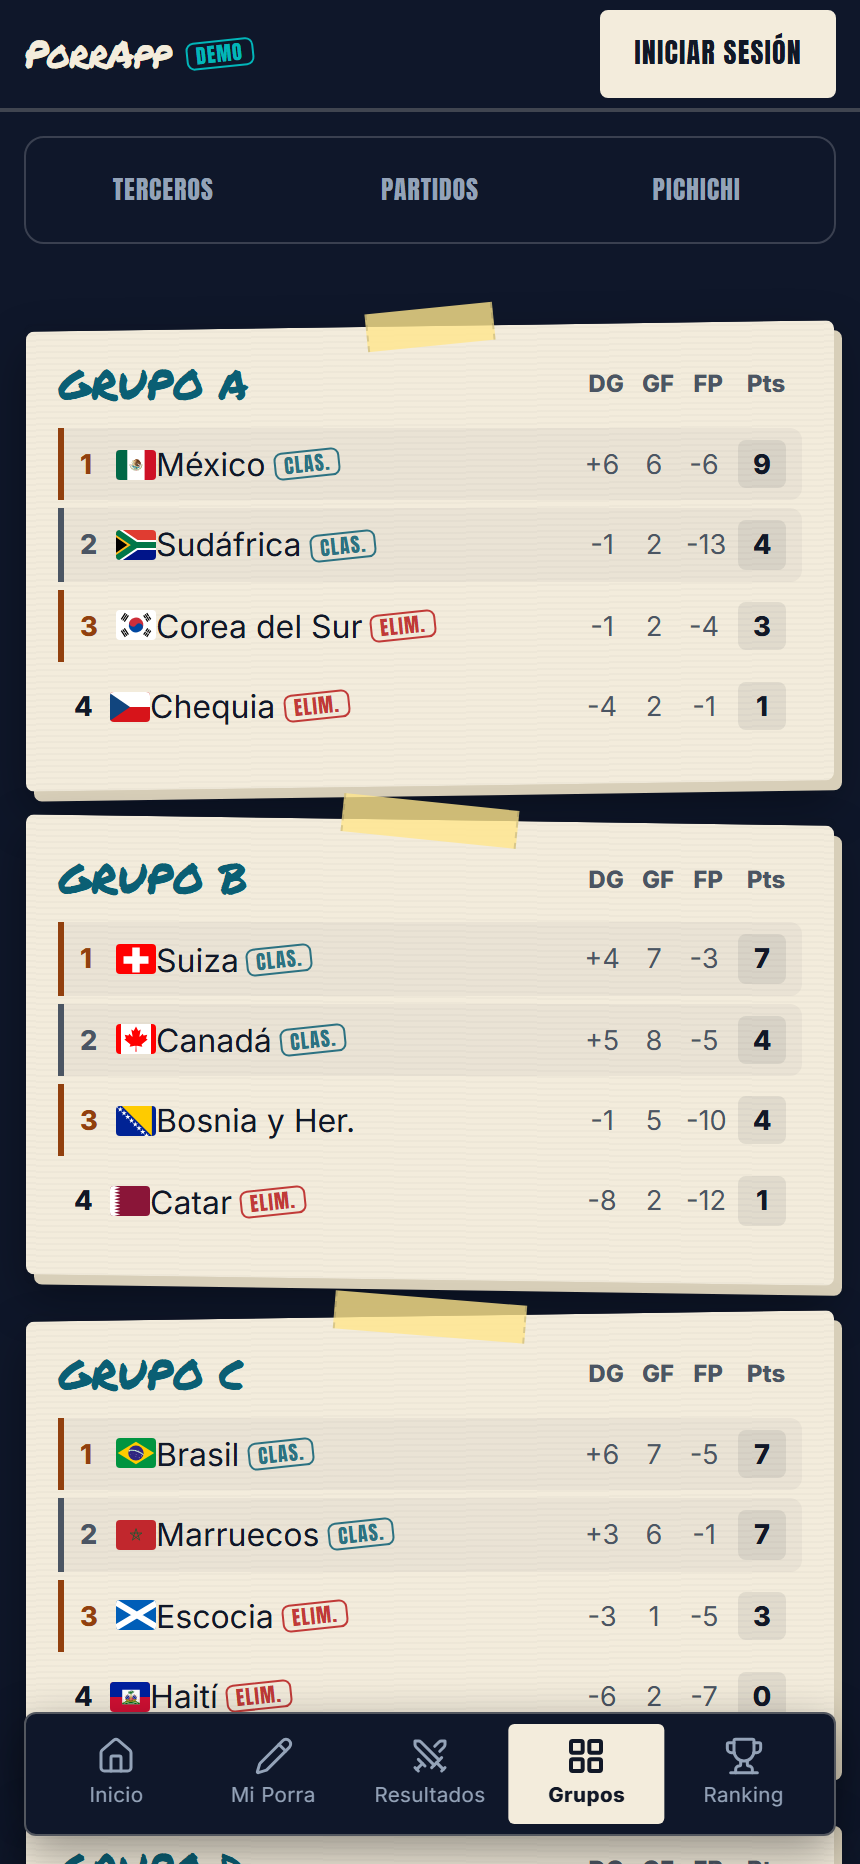
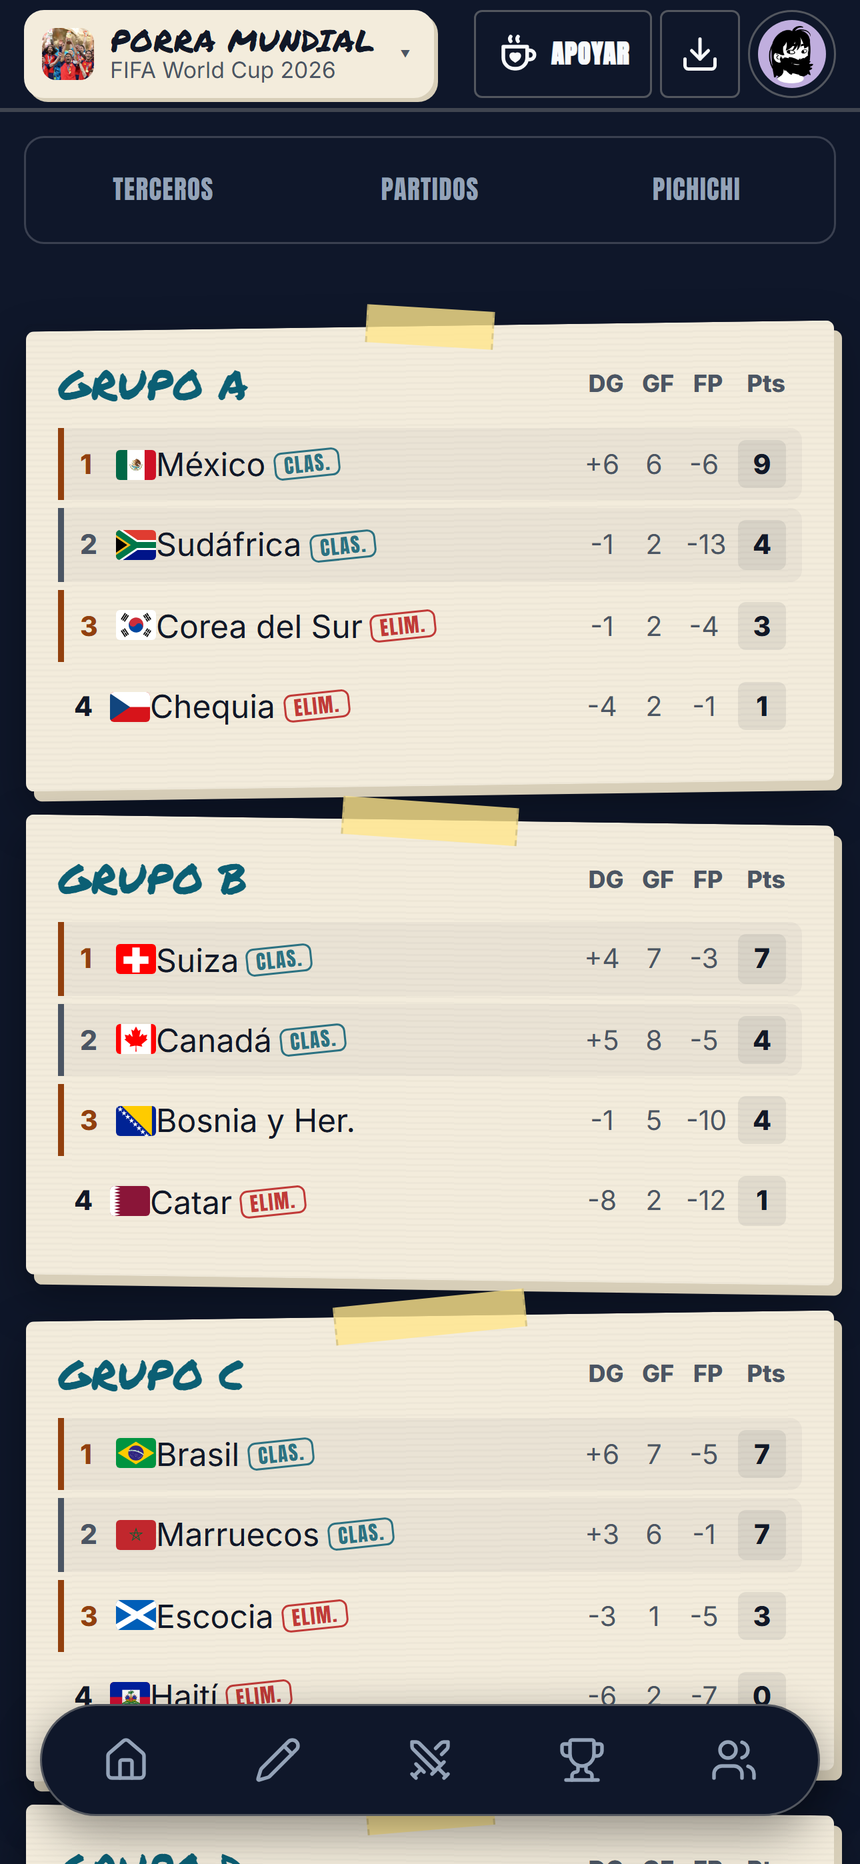
docs: README al día con capturas nuevas
PR: #462

diff --git a/README.md b/README.md
@@ -1,12 +1,12 @@
 <div align="center">
 
-<img src="docs/screenshots/hero.jpg" alt="PorrApp: jornadas deportivas, clasificación y marcador de juegos en la interfaz móvil actual" width="100%">
+<img src="docs/screenshots/hero.jpg" alt="PorrApp: predicciones de la jornada, clasificación y cuadro de eliminatorias en la interfaz móvil actual" width="100%">
 
 # PorrApp
 
 **Tu liga con amigos. Del pronóstico del domingo a la partida del jueves.**
 
-Porras multideporte y marcadores de juegos de mesa, en una PWA con Java y React.
+Porras multideporte, torneos propios, ligas de póker y marcadores de juegos de mesa, en una PWA con Java y React.
 
 [![Demo en vivo](https://img.shields.io/badge/Probar_la_demo-porrapp.app-2fc4c4?style=for-the-badge&logo=googlechrome&logoColor=white)](https://porrapp.app/demo)
 [![CI](https://img.shields.io/github/actions/workflow/status/RaclosDev/porrApp/ci.yml?branch=main&style=for-the-badge&label=CI&logo=githubactions&logoColor=white)](https://github.com/RaclosDev/porrApp/actions/workflows/ci.yml)
@@ -17,45 +17,51 @@ Java 21 · Spring Boot 4.1 · React 19 · TypeScript · PostgreSQL
 
 Proyecto personal de **Carlos Sanz Tomero**, desarrollador full-stack. PorrApp reúne invitaciones, predicciones, resultados y clasificación para que un grupo pueda llevar su liga desde el móvil. Las competiciones oficiales compatibles sincronizan sus resultados; los torneos propios y las partidas tienen gestión manual.
 
-**Para conocer el proyecto:** [abre la demo sin registro](https://porrapp.app/demo), consulta las decisiones técnicas de abajo o entra en la [arquitectura](docs/architecture.md). La demo pública muestra una liga del Mundial en modo de solo lectura; las capturas también enseñan las modalidades incorporadas después.
+**Para conocer el proyecto:** [abre la demo sin registro](https://porrapp.app/demo), consulta las decisiones técnicas de abajo o entra en la [arquitectura](docs/architecture.md). La demo pública muestra una liga del Mundial en modo de solo lectura; las capturas enseñan además las ligas por jornadas y el póker.
 
 ## La app actual
 
 <table>
   <tr>
-    <td align="center" width="33%"><img src="docs/screenshots/league-home.png" alt="Inicio de una liga por jornadas con calendario y clasificación" width="240"><br><sub><b>Tu liga</b> · calendario y ranking</sub></td>
-    <td align="center" width="33%"><img src="docs/screenshots/matchday.png" alt="Predicciones 1X2 de la jornada con elecciones guardadas" width="240"><br><sub><b>Jornadas</b> · cada partido tiene su cierre</sub></td>
-    <td align="center" width="33%"><img src="docs/screenshots/scoreboard.png" alt="Marcador de Catán con rondas, totales y participantes" width="240"><br><sub><b>Juegos de mesa</b> · rondas y partidas</sub></td>
+    <td align="center" width="33%"><img src="docs/screenshots/league-home.png" alt="Inicio de una liga de LaLiga con los partidos de la próxima jornada y sus escudos" width="240"><br><sub><b>Tu liga</b> · la jornada que viene</sub></td>
+    <td align="center" width="33%"><img src="docs/screenshots/matchday.png" alt="Predicciones 1X2 de una jornada con las elecciones guardadas y cada partido abierto" width="240"><br><sub><b>Jornadas</b> · cada partido tiene su cierre</sub></td>
+    <td align="center" width="33%"><img src="docs/screenshots/league-ranking.png" alt="Podio de la jornada y clasificación general de la liga con los avatares de los participantes" width="240"><br><sub><b>Ranking</b> · general y por jornada</sub></td>
   </tr>
   <tr>
-    <td align="center"><img src="docs/screenshots/ranking.png" alt="Podio y clasificación de la demo pública" width="240"><br><sub><b>Ranking</b> · puntos y desglose</sub></td>
-    <td align="center"><img src="docs/screenshots/prediction.png" alt="Predicción de eliminatorias en la demo pública" width="240"><br><sub><b>Cuadro</b> · camino hasta la final</sub></td>
-    <td align="center"><img src="docs/screenshots/groups.png" alt="Clasificación de los grupos del torneo" width="240"><br><sub><b>Grupos</b> · clasificación y desempates</sub></td>
+    <td align="center"><img src="docs/screenshots/ranking.png" alt="Podio y clasificación de una porra del Mundial con veinte participantes" width="240"><br><sub><b>Mundial</b> · podio y desglose por fase</sub></td>
+    <td align="center"><img src="docs/screenshots/bracket.png" alt="Cuadro de cuartos de final del Mundial con los equipos clasificados y eliminados" width="240"><br><sub><b>Cuadro</b> · camino hasta la final</sub></td>
+    <td align="center"><img src="docs/screenshots/groups.png" alt="Clasificación de los grupos del Mundial con equipos clasificados y eliminados" width="240"><br><sub><b>Grupos</b> · clasificación y desempates</sub></td>
+  </tr>
+  <tr>
+    <td align="center"><img src="frontend/public/landing/porras/poker-mesa-600.webp" alt="Reloj de un torneo de póker con nivel de ciegas, jugadores en mesa y bote" width="240"><br><sub><b>Póker</b> · reloj, ciegas y mesa</sub></td>
+    <td align="center"><img src="frontend/public/landing/porras/poker-historico-600.webp" alt="Histórico de un torneo de póker con podio, premios y neto de cada jugador" width="240"><br><sub><b>Histórico</b> · premios y neto por torneo</sub></td>
+    <td align="center"><img src="frontend/public/landing/porras/poker-estadisticas-600.webp" alt="Estadísticas de una liga de póker con victorias, torneos y recompras" width="240"><br><sub><b>Estadísticas</b> · victorias, ROI y rachas</sub></td>
   </tr>
 </table>
 
-Capturas de la interfaz real, renovadas en noviembre de 2026. La primera fila usa datos ficticios en una ejecución local; la segunda procede de la demo pública. [Origen y reproducción de las capturas](docs/screenshots/README.md).
+Capturas de la interfaz real con la sesión iniciada, renovadas en noviembre de 2026. Las dos primeras filas muestran ligas reales sobre una copia local de la base de datos, con avatares ilustrados en lugar de las fotos de los participantes; la fila de póker usa datos ficticios. [Origen de las capturas](docs/screenshots/README.md).
 
 ## Qué permite hacer
 
-- **Organizar ligas privadas:** invitaciones, miembros, reglas y puntuación propias. Una misma cuenta puede participar en varias ligas.
+- **Organizar ligas privadas:** invitaciones, miembros, reglas y puntuación propias, con varios administradores por liga. Una misma cuenta puede participar en varias ligas.
 - **Elegir cómo competir:** cuadro completo, solo eliminatorias, jornadas, superviviente o Grandes Premios. Las opciones dependen del deporte y la competición.
-- **Predecir según el deporte:** 1X2 y marcador en fútbol, series de LoL, sets de tenis, ganador y resolución de una pelea de UFC, o podio, pole y vuelta rápida en F1. También hay competiciones de baloncesto y fútbol americano.
+- **Predecir según el deporte:** 1X2 y marcador en fútbol, series de LoL, sets de tenis (con la foto y la bandera de cada tenista), ganador y resolución de una pelea de UFC, o podio, pole y vuelta rápida en F1. También hay competiciones de baloncesto y fútbol americano.
 - **Crear competiciones propias:** equipos, calendario, resultados y cierres de predicciones configurables.
-- **Organizar torneos sin porras:** desde «Mis ligas → Organizar torneo», añade hasta 64 personas, equipos o parejas sin cuenta. Genera una liga de ida/vuelta o una eliminatoria aleatoria, por cabezas de serie o con posiciones elegidas; registra resultados y publica un enlace o QR de consulta sin registro. Puedes intercambiar posiciones antes de jugar y corregir resultados sin sobrescribir rondas posteriores ya disputadas.
+- **Organizar torneos sin porras:** añade hasta 64 personas, equipos o parejas sin cuenta. Genera una liga de ida/vuelta o una eliminatoria aleatoria, por cabezas de serie o con posiciones elegidas; registra resultados y publica un enlace o QR de consulta sin registro. Puedes intercambiar posiciones antes de jugar y corregir resultados sin sobrescribir rondas posteriores ya disputadas.
+- **Montar ligas de póker:** torneos recurrentes con reloj de ciegas, sonidos de cambio de nivel y modo TV con cola de canciones. Recompras, add-ons, jugadores que se suman con la mesa empezada, reparto de premios editable y pagos para saldar cada torneo. Histórico torneo a torneo y estadísticas con ROI y rachas.
 - **Llevar juegos de mesa:** jugadores, días de juego, partidas, rondas y clasificación; puntuación por puntos o victorias, con histórico y corrección de resultados.
 - **Seguir la liga:** sincronización de resultados oficiales, recálculo de puntos en el servidor y avisos por WebSocket para refrescar las vistas. Estadísticas y reparto de predicciones en los partidos ya cerrados.
 - **Usarla desde el móvil:** PWA instalable, acceso con Google, email y contraseña o llaves de acceso WebAuthn.
 
 ## Decisiones técnicas que puedes revisar
 
-| Problema                            | Implementación                                                                                                                                                                                                                                                                      |
-| ----------------------------------- | ----------------------------------------------------------------------------------------------------------------------------------------------------------------------------------------------------------------------------------------------------------------------------------- |
-| Reglas distintas por modalidad      | [Estrategias de puntuación](backend/src/main/java/app/porrapp/scoring) y servicios de dominio separan predicciones, cierres, superviviente y carreras. El marcador de juegos tiene su [servicio propio](backend/src/main/java/app/porrapp/service/league/ScoreTrackerService.java). |
-| Datos deportivos externos           | La [capa de proveedores](backend/src/main/java/app/porrapp/sports) integra ESPN y LoL Esports. La sincronización programada tiene exclusión mutua con ShedLock y protección frente a fallos externos con Resilience4j.                                                              |
-| Pantallas actualizadas sin recargar | El servidor publica cambios por WebSocket y el cliente invalida las consultas afectadas de TanStack Query. La puntuación se calcula en el backend.                                                                                                                                  |
-| Sesiones entre navegador y PWA      | Access token en memoria, refresh token rotatorio en cookie `HttpOnly`, detección de reutilización y coordinación entre pestañas. [Servicios de cuenta](backend/src/main/java/app/porrapp/service/account) para autenticación y WebAuthn.                                            |
-| Persistencia y despliegue           | PostgreSQL con migraciones Flyway. Una imagen Docker compila React y lo sirve desde Spring Boot; GitHub Actions valida los cambios antes del despliegue en Railway.                                                                                                                 |
+| Problema                            | Implementación                                                                                                                                                                                                                                                                                                                                                                                                                 |
+| ----------------------------------- | ------------------------------------------------------------------------------------------------------------------------------------------------------------------------------------------------------------------------------------------------------------------------------------------------------------------------------------------------------------------------------------------------------------------------------ |
+| Reglas distintas por modalidad      | [Estrategias de puntuación](backend/src/main/java/app/porrapp/scoring) y servicios de dominio separan predicciones, cierres, superviviente y carreras. El marcador de juegos y las ligas de póker tienen servicios propios ([ScoreTrackerService](backend/src/main/java/app/porrapp/service/league/ScoreTrackerService.java), [PokerLeagueService](backend/src/main/java/app/porrapp/service/league/PokerLeagueService.java)). |
+| Datos deportivos externos           | La [capa de proveedores](backend/src/main/java/app/porrapp/sports) integra ESPN y LoL Esports. La sincronización programada tiene exclusión mutua con ShedLock y protección frente a fallos externos con Resilience4j.                                                                                                                                                                                                         |
+| Pantallas actualizadas sin recargar | El servidor publica cambios por WebSocket y el cliente invalida las consultas afectadas de TanStack Query. La puntuación se calcula en el backend.                                                                                                                                                                                                                                                                             |
+| Sesiones entre navegador y PWA      | Access token en memoria, refresh token rotatorio en cookie `HttpOnly`, detección de reutilización y coordinación entre pestañas. [Servicios de cuenta](backend/src/main/java/app/porrapp/service/account) para autenticación y WebAuthn.                                                                                                                                                                                       |
+| Persistencia y despliegue           | PostgreSQL con migraciones Flyway. Una imagen Docker compila React y lo sirve desde Spring Boot; GitHub Actions valida los cambios antes del despliegue en Railway.                                                                                                                                                                                                                                                            |
 
 ```mermaid
 flowchart LR

diff --git a/docs/screenshots/README.md b/docs/screenshots/README.md
@@ -1,15 +1,20 @@
 # Capturas del README
 
-Capturas renovadas en noviembre de 2026 a **430 × 932 px CSS**, densidad 2× (PNG de 860 × 1864). Se capturan los componentes reales de la aplicación, con sus fuentes, estilos y navegación móvil.
+Capturas renovadas en noviembre de 2026 a **430 × 932 px CSS** con la sesión iniciada, tomadas a densidad 3× y reducidas a PNG de 860 × 1864. Muestran la aplicación real, con sus fuentes, estilos y navegación móvil.
 
-| Archivos                                                        | Origen                                                                                                                                                                                                                                  |
-| --------------------------------------------------------------- | --------------------------------------------------------------------------------------------------------------------------------------------------------------------------------------------------------------------------------------- |
-| `landing`, `home`, `ranking`, `prediction`, `bracket`, `groups` | [Demo pública](https://porrapp.app/demo), en modo de solo lectura y sin cuenta. Solo se oculta el aviso flotante de modo demo; la marca DEMO de la cabecera se conserva.                                                                |
-| `league-home`, `matchday`, `scoreboard`                         | Frontend local con respuestas de API interceptadas. Participantes, calendario, predicciones y partidas **ficticios** para mostrar jornadas y juegos de mesa sin acceder a cuentas privadas. La interfaz no se sustituye ni se modifica. |
+| Archivos                                                 | Origen                                                                                                                                                        |
+| -------------------------------------------------------- | ------------------------------------------------------------------------------------------------------------------------------------------------------------- |
+| `league-home`, `matchday`, `league-ranking`, `standings` | Liga de LaLiga por jornadas, abierta en local con sesión iniciada sobre una copia de la base de datos. La base de producción solo se lee para hacer la copia. |
+| `home`, `ranking`, `groups`, `bracket`, `final`          | Porra del Mundial ya terminada, en las mismas condiciones.                                                                                                    |
+| `frontend/public/landing/porras/poker-*.webp`            | Imágenes de la portada de la aplicación, con jugadores y torneos **ficticios**.                                                                               |
 
-`hero.jpg` combina capturas de jornadas, ranking y marcador dentro de una composición de teléfonos. El [generador compartido](https://github.com/RaclosDev/RaclosDev/tree/main/scripts) mantiene la misma composición en el perfil y los proyectos. Los datos de las capturas no acreditan el tamaño de la comunidad ni resultados deportivos reales.
+Las ligas son reales: se conservan los apodos de los participantes, pero sus fotos se sustituyen por avatares ilustrados de [DiceBear Lorelei](https://www.dicebear.com/styles/lorelei/) (CC0). `standings`, `home` y `final` no aparecen en el README principal; quedan disponibles para otras páginas.
 
-## Preparar el navegador
+`hero.jpg` combina capturas de jornadas, ranking y cuadro dentro de una composición de teléfonos. El [generador compartido](https://github.com/RaclosDev/RaclosDev/tree/main/scripts) mantiene la misma composición en el perfil y los proyectos. Las capturas no acreditan el tamaño de la comunidad.
+
+## Regenerar sin datos reales
+
+Los dos scripts de esta carpeta producen versiones alternativas sin sesión ni base de datos. Sirven para comprobar la interfaz, pero escriben en esta misma carpeta: revisa `git status` antes de confirmar para no sustituir las capturas publicadas.
 
 Desde la raíz, con Node.js 22+:
 
@@ -18,15 +23,15 @@ npm --prefix frontend ci
 npx --prefix frontend playwright install chromium
 ```
 
-## Demo pública
+### Demo pública
 
 ```bash
 node docs/screenshots/capture.mjs
 ```
 
-También acepta una URL base como argumento. El script recorre la portada y la demo, rechaza las cookies opcionales, espera las fuentes y comprueba que no haya desbordamiento horizontal. Sobrescribe los seis PNG de la demo.
+También acepta una URL base como argumento. Recorre la portada y la [demo pública](https://porrapp.app/demo) en modo de solo lectura, rechaza las cookies opcionales, espera las fuentes y comprueba que no haya desbordamiento horizontal. Genera `landing`, `home`, `ranking`, `prediction`, `bracket` y `groups`.
 
-## Jornadas y juegos de mesa
+### Jornadas y juegos de mesa con datos ficticios
 
 Arranca el frontend en una terminal:
 
@@ -40,4 +45,4 @@ Desde otra terminal:
 node docs/screenshots/capture-local.mjs http://127.0.0.1:5173
 ```
 
-Este segundo script solo acepta una dirección local. Intercepta todas las peticiones `/api/`, bloquea las conexiones externas salvo fuentes y banderas, y fija la fecha del navegador para que los partidos sigan abiertos al regenerar las imágenes. No necesita backend, credenciales ni base de datos. Comprueba fuentes, ausencia de errores de JavaScript y desbordamiento horizontal antes de guardar los tres PNG.
+Solo acepta una dirección local. Intercepta todas las peticiones `/api/`, bloquea las conexiones externas salvo fuentes y banderas, y fija la fecha del navegador para que los partidos sigan abiertos. No necesita backend, credenciales ni base de datos. Genera `league-home`, `matchday` y `scoreboard`.
